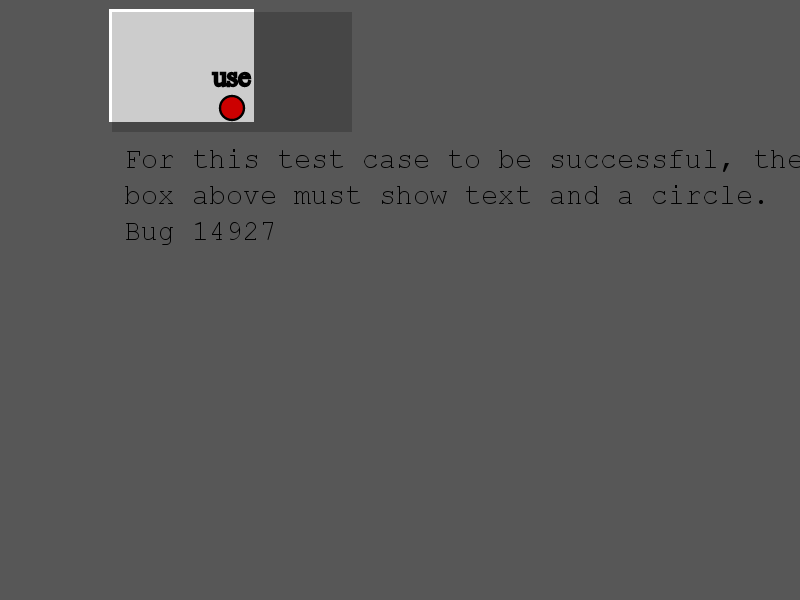
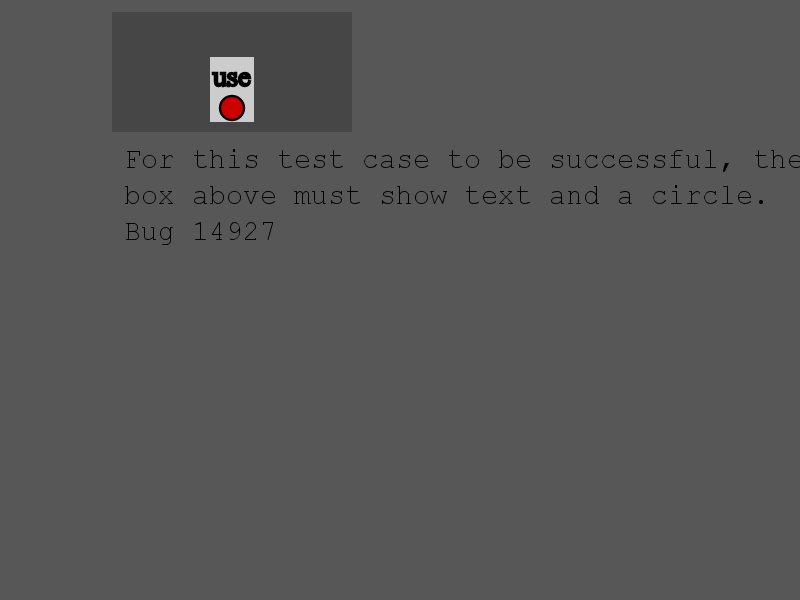
Use m_everHadLayout in RenderObject::checkForRepaintDuringLayout() https://bugs.webkit.org/show_bug.cgi?id=20885
Reviewed by Dan Bernstein.

Source/WebCore:

Fix FIXME in checkForRepaintDuringLayout, making RenderObjects
no longer paint on first layout, but instead require their
parent containers to paint them.
This appears to have fixed one minor SVG overpainting issue
in svg/use-detach-expected.png.

* rendering/RenderBlock.cpp:
(WebCore::RenderBlock::layoutBlock):
* rendering/RenderObject.cpp:
(WebCore::RenderObject::checkForRepaintDuringLayout):
* rendering/svg/SVGRenderSupport.cpp:
(WebCore::SVGRenderSupport::layoutChildren):

LayoutTests:

Updated result.  Appears to be a progression.  I suspect
we were over-drawing the <g> container before and now we're
just drawing the two objects which change.

* platform/chromium-mac/svg/custom/use-detach-expected.png:
* platform/chromium-linux/svg/custom/use-detach-expected.png:
* platform/mac/svg/custom/use-detach-expected.png:

Identifier: 111449@main
git-svn-id: https://svn.webkit.org/repository/webkit/trunk@125160 268f45cc-cd09-0410-ab3c-d52691b4dbfc

Changed region(s): [[0.125, 0.0, 0.3438, 0.21]]

diff --git a/Source/WebCore/rendering/svg/SVGRenderSupport.cpp b/Source/WebCore/rendering/svg/SVGRenderSupport.cpp
@@ -207,6 +207,7 @@ void SVGRenderSupport::layoutChildren(RenderObject* start, bool selfNeedsLayout)
 
     for (RenderObject* child = start->firstChild(); child; child = child->nextSibling()) {
         bool needsLayout = selfNeedsLayout;
+        bool childEverHadLayout = child->everHadLayout();
 
         if (transformChanged) {
             // If the transform changed we need to update the text metrics (note: this also happens for layoutSizeChanged=true).
@@ -232,15 +233,19 @@ void SVGRenderSupport::layoutChildren(RenderObject* start, bool selfNeedsLayout)
             }
         }
 
-        if (needsLayout) {
+        if (needsLayout)
             child->setNeedsLayout(true, MarkOnlyThis);
+
+        if (child->needsLayout()) {
             child->layout();
-        } else {
-            if (child->needsLayout())
-                child->layout();
-            else if (layoutSizeChanged)
-                notlayoutedObjects.add(child);
-        }
+            // Renderers are responsible for repainting themselves when changing, except
+            // for the initial paint to avoid potential double-painting caused by non-sensical "old" bounds.
+            // We could handle this in the individual objects, but for now it's easier to have
+            // parent containers call repaint().  (RenderBlock::layout* has similar logic.)
+            if (!childEverHadLayout)
+                child->repaint();
+        } else if (layoutSizeChanged)
+            notlayoutedObjects.add(child);
 
         ASSERT(!child->needsLayout());
     }

diff --git a/Source/WebCore/rendering/RenderObject.cpp b/Source/WebCore/rendering/RenderObject.cpp
@@ -1453,10 +1453,7 @@ void RenderObject::repaintOverhangingFloats(bool)
 
 bool RenderObject::checkForRepaintDuringLayout() const
 {
-    // FIXME: <https://bugs.webkit.org/show_bug.cgi?id=20885> It is probably safe to also require
-    // m_everHadLayout. Currently, only RenderBlock::layoutBlock() adds this condition. See also
-    // <https://bugs.webkit.org/show_bug.cgi?id=15129>.
-    return !document()->view()->needsFullRepaint() && !hasLayer();
+    return !document()->view()->needsFullRepaint() && !hasLayer() && everHadLayout();
 }
 
 LayoutRect RenderObject::rectWithOutlineForRepaint(RenderBoxModelObject* repaintContainer, LayoutUnit outlineWidth) const

diff --git a/Source/WebCore/rendering/RenderBlock.cpp b/Source/WebCore/rendering/RenderBlock.cpp
@@ -1420,7 +1420,7 @@ void RenderBlock::layoutBlock(bool relayoutChildren, LayoutUnit pageLogicalHeigh
     if (!relayoutChildren && simplifiedLayout())
         return;
 
-    LayoutRepainter repainter(*this, everHadLayout() && checkForRepaintDuringLayout());
+    LayoutRepainter repainter(*this, checkForRepaintDuringLayout());
 
     if (recomputeLogicalWidth())
         relayoutChildren = true;
